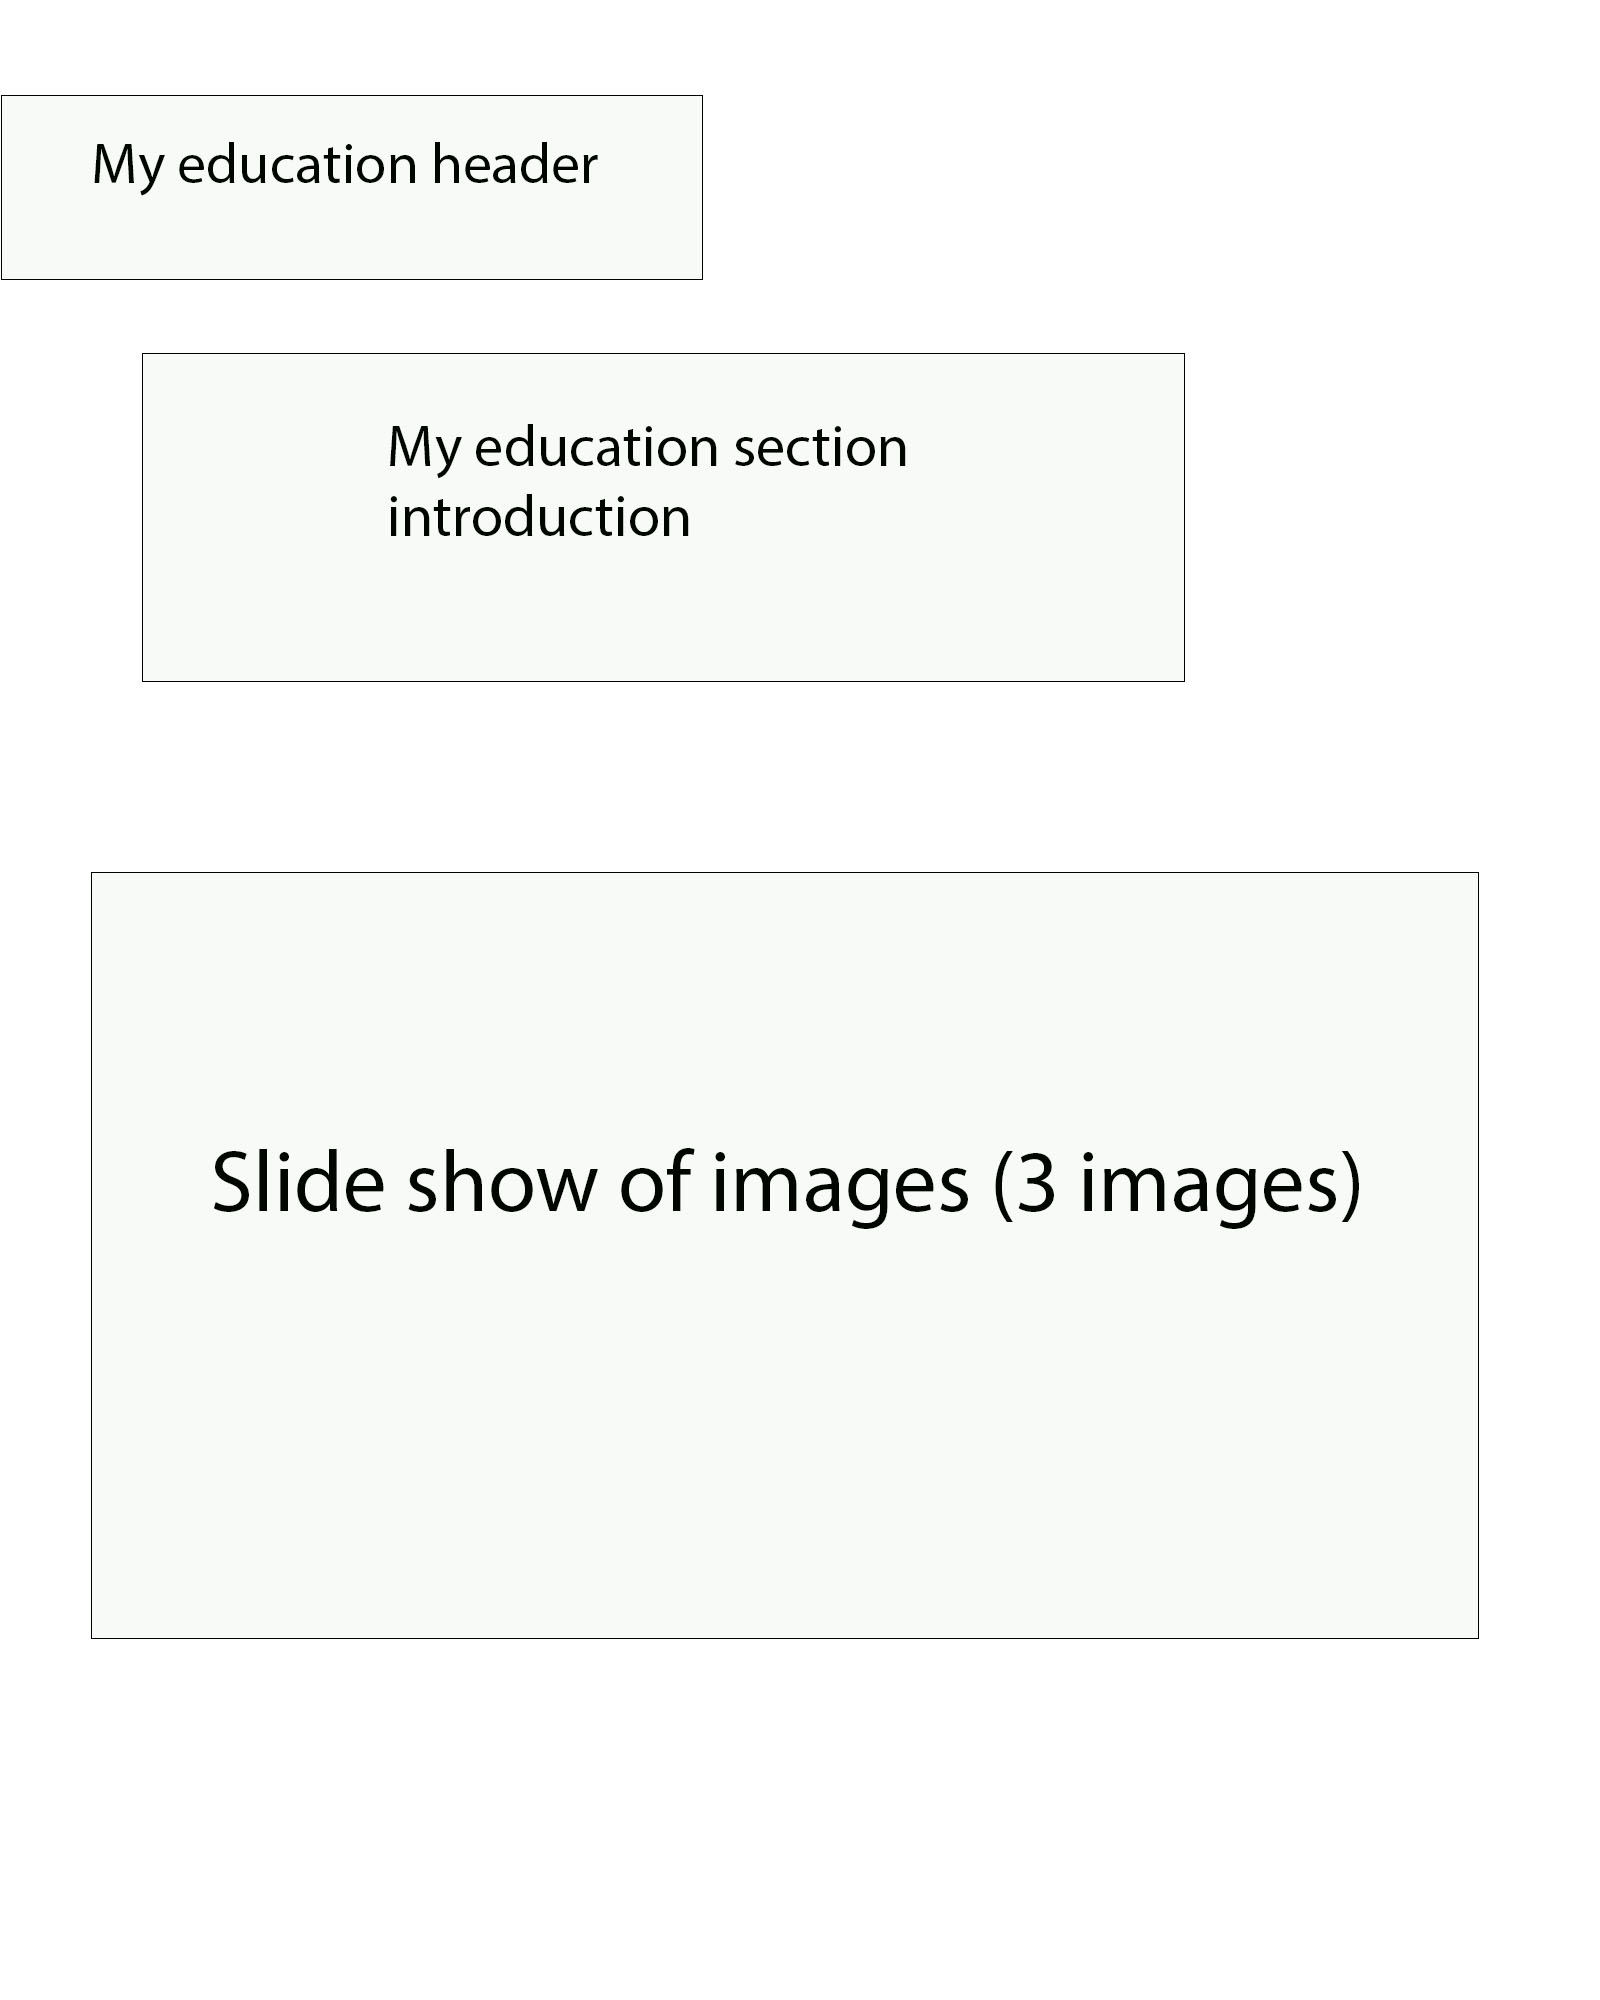
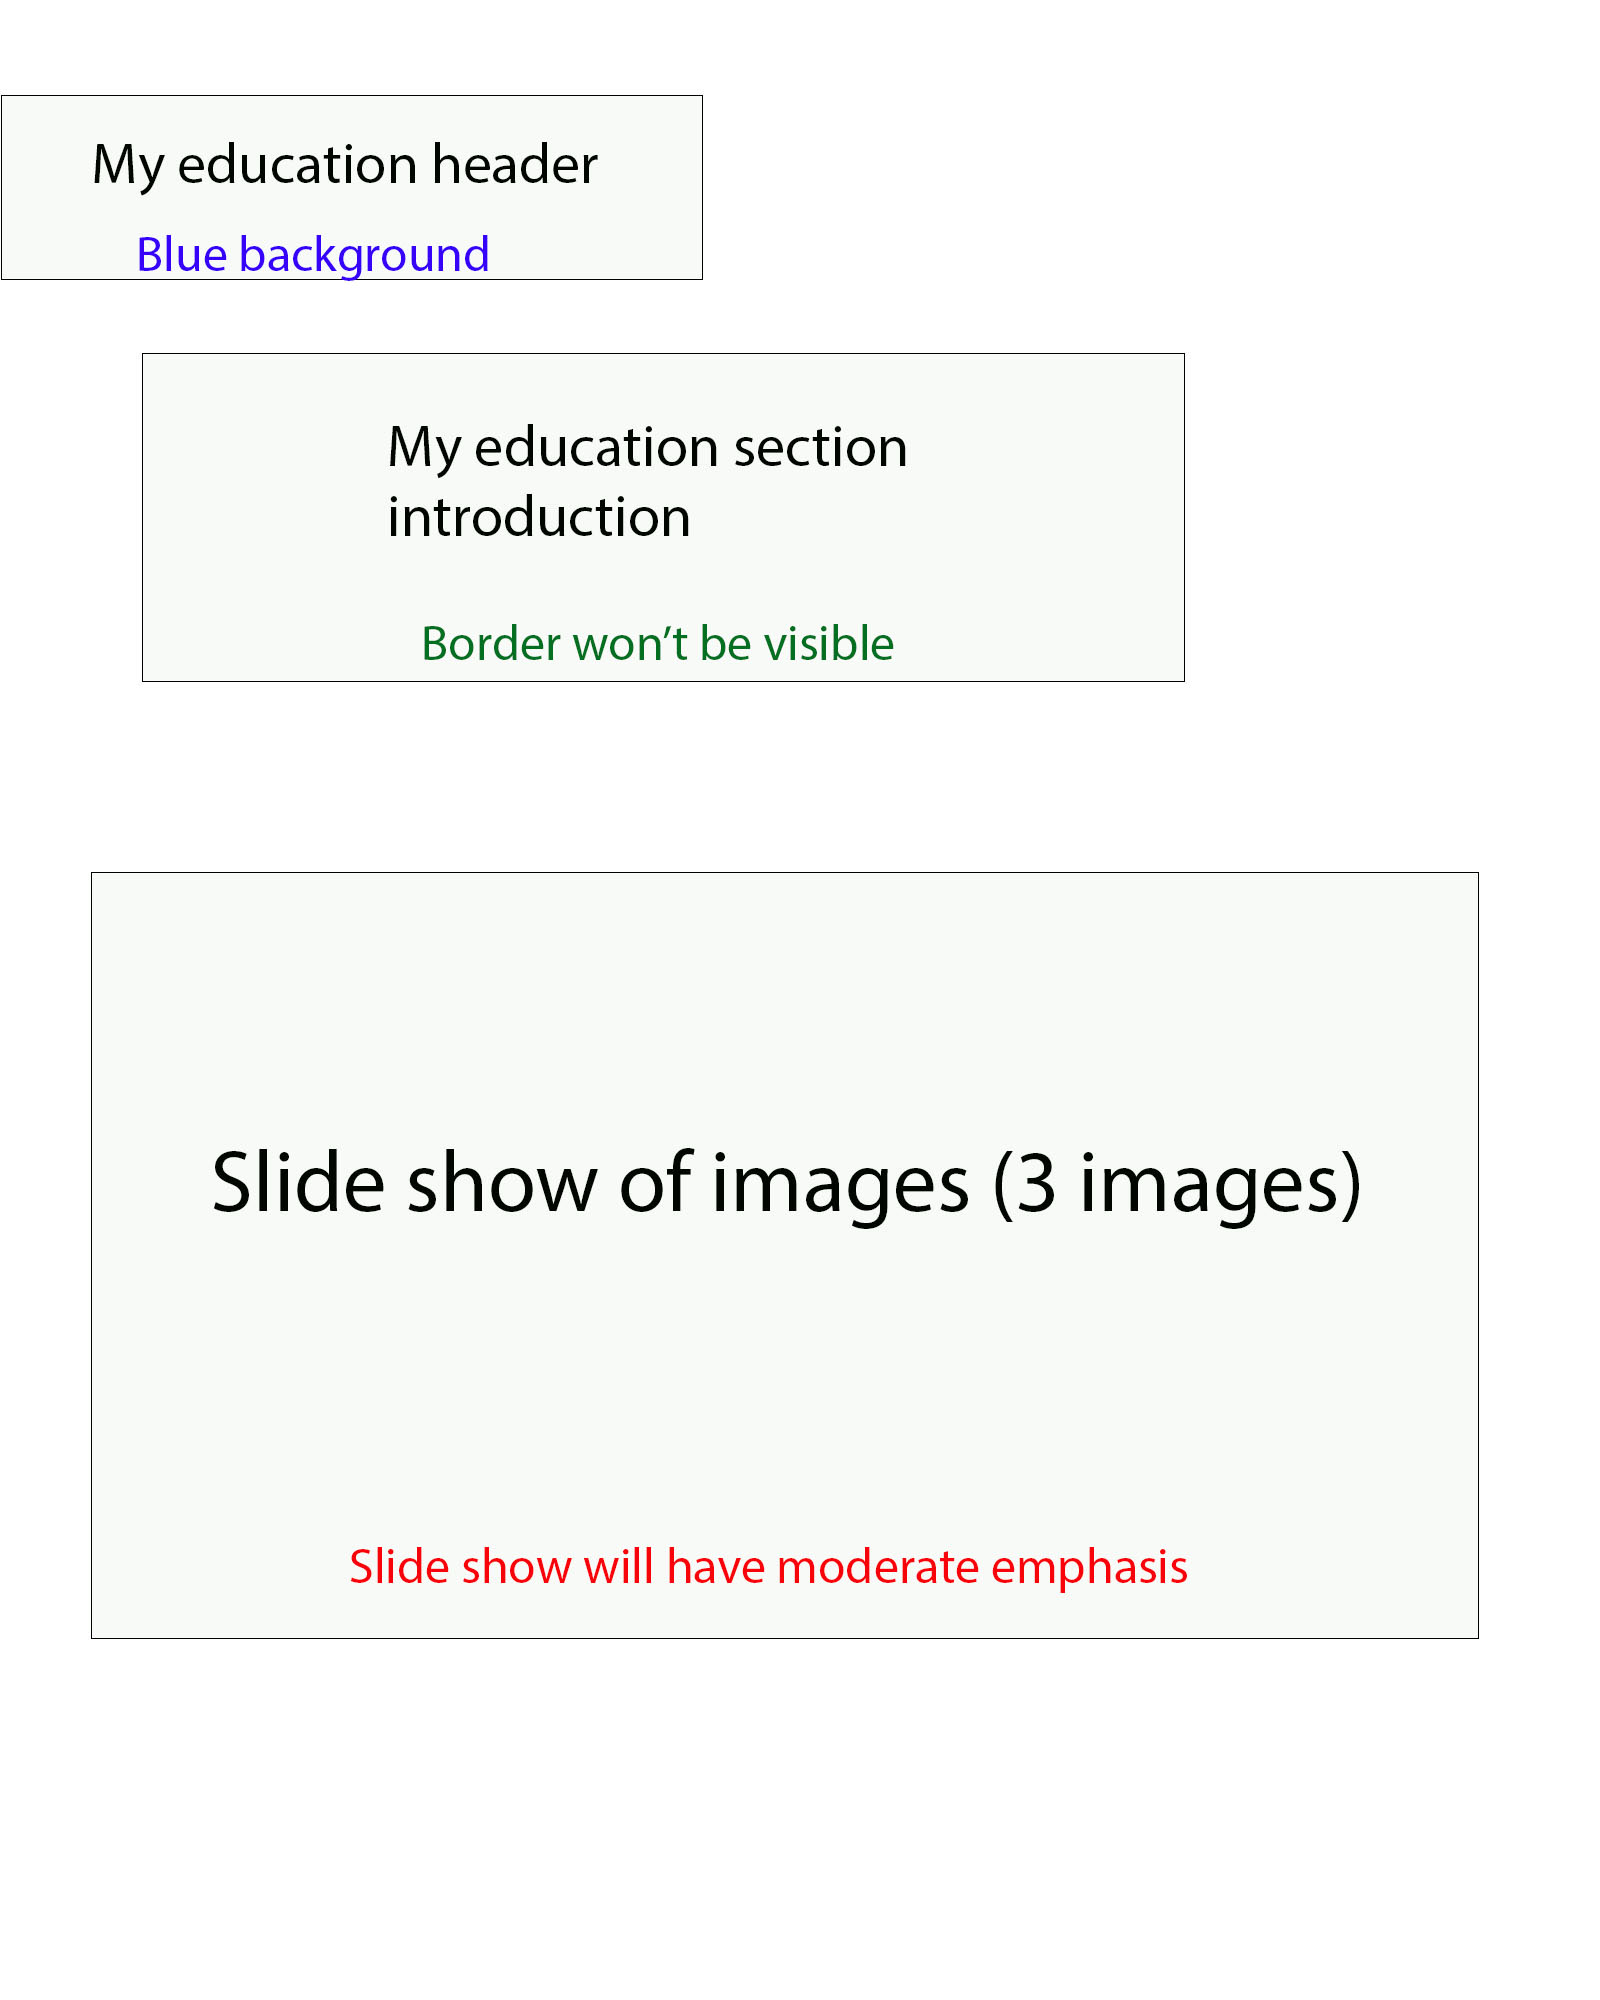
made some changes

Changed region(s): [[0.2188, 0.775, 0.75, 0.806], [0.25, 0.31, 0.5625, 0.341], [0.0938, 0.124, 0.3125, 0.155]]

diff --git a/Documentation/design/asset tables.md b/Documentation/design/asset tables.md
@@ -26,19 +26,19 @@ section. There are three images that will be conatined in a slide show next to t
 
 | Source  | Image  | Copyright  | size  | position on portfolio  |
 |---|---|---|---|---|
-| https://educwaac-my.sharepoint.com/:w:/r/personal/434879_edu_cwa_ac_uk/_layouts/15/Doc.aspx?sourcedoc=%7BFBE31201-A57E-4733-B04C-51A124C398C3%7D&file=Practicals%20and%20Components%20History.docx&wdOrigin=OFFICECOM-WEB.MAIN.REC&ct=1652706037738&action=default&mobileredirect=true | Hardware management practical | N | 450 x 450 | These will be the four images used as evidence in the college section explaining the hardware management topic |
-| file:///D:/L2_2022_U13_Mitchell%20-%20Copy/Src/HTML(Mobile)/Home.html | Mobile phone website opening view | N | 450 x 450 | Will be the first image in the explanation of my web development in the college section |
-| file:///D:/L2_2022_U13_Mitchell%20-%20Copy/Src/HTML(Mobile)/Home.html | Youtube video on my website home page | N | 450 x 450 | Will be the second image in the explanation of my web development in the college section |
-| file:///D:/L2_2022_U13_Mitchell%20-%20Copy/Src/HTML/ApplePhoneShop.HTML | Apple phone shop web page on my phone shop website | N | 450 x 450 | Will be the third image in the explanation of my web development in the college section |
-| file:///D:/L2_2022_U13_Mitchell%20-%20Copy/Src/HTML/Help.html | Help page of my phone shop website | N | 450 x 450 | Will be the fourth image in the explanation of my web development in the college section |
+| https://educwaac-my.sharepoint.com/:w:/r/personal/434879_edu_cwa_ac_uk/_layouts/15/Doc.aspx?sourcedoc=%7BFBE31201-A57E-4733-B04C-51A124C398C3%7D&file=Practicals%20and%20Components%20History.docx&wdOrigin=OFFICECOM-WEB.MAIN.REC&ct=1652706037738&action=default&mobileredirect=true | Hardware management practical | N | 1280 x 1280 | These will be the four images used as evidence in the college section explaining the hardware management topic |
+| file:///D:/L2_2022_U13_Mitchell%20-%20Copy/Src/HTML(Mobile)/Home.html | Mobile phone website opening view | N | 663 x 956 | Will be the first image in the explanation of my web development in the college section |
+| file:///D:/L2_2022_U13_Mitchell%20-%20Copy/Src/HTML(Mobile)/Home.html | Youtube video on my website home page | N | 1920 x 1080 | Will be the second image in the explanation of my web development in the college section |
+| file:///D:/L2_2022_U13_Mitchell%20-%20Copy/Src/HTML/ApplePhoneShop.HTML | Apple phone shop web page on my phone shop website | N | 1920 x 1080 | Will be the third image in the explanation of my web development in the college section |
+| file:///D:/L2_2022_U13_Mitchell%20-%20Copy/Src/HTML/Help.html | Help page of my phone shop website | N | 1920 x 1080 | Will be the fourth image in the explanation of my web development in the college section |
 
-In this table, the first asset is actually four images, I only made them one asset on the table because they are the same image just with different angles and components from the PC I was taking apart. The rest of the assets are the images that will be next to explanation of the development of my website and they will be used as evidence that I have created the website.
+In this table, the first asset is actually four images, I only made them one asset on the table because they are the same image just with different angles and components from the PC I was taking apart. The rest of the assets are the images that will be next to explanation of the development of my website and they will be used as evidence that I have created the website. The image of the opening view for my website has a smaller size than the other images of the website because the opening view is a screenshot of the mobile version whereas the others are screenshots of the PC version.
 
 ## Neale-Wade and Cavalry Primary sections
 
 | Source  | Image  | Copyright  | size  | position on portfolio  |
 |---|---|---|---|---|
-| https://students.cwa.ac.uk/learner/434879  | GCSE results  | N  | 450 x 450  | Will be the only image in the Neale-Wade section in the 'my education' section  |
+| https://students.cwa.ac.uk/learner/434879  | GCSE results  | N  | 1019 x 488  | Will be the only image in the Neale-Wade section in the 'my education' section  |
 |   | Sports day photo  |   |   | Will be the only image in the Cavalry Primary section in the 'my education' section  |
 
 Like the first asset table, there is only one image on each of these sections so I just put them into one asset table. The GCSE results will be on the 'Neale-Wade' section; used as evidence that I got decent grades. The image on the 'Cavalry Primary' section is an image of me at sports day which will be used to convince people that I am willing to participate in activites and that I have confidence.
@@ -56,7 +56,7 @@ The 'My Hobbies' section will have two images conatined in a slide show. One of 
 
 | Source  | Image  | Copyright  | size  | position on portfolio  |
 |---|---|---|---|---|
-| https://educwaac-my.sharepoint.com/:w:/r/personal/434879_edu_cwa_ac_uk/_layouts/15/Doc.aspx?sourcedoc=%7BBC495C24-0E91-4820-BD24-B7C9C32D26A5%7D&file=Mitchell%20CV.docx&action=default&mobileredirect=true&DefaultItemOpen=1&login_hint=434879%40edu.cwa.ac.uk&ct=1652708549136&wdOrigin=OFFICECOM-WEB.MAIN.EDGEWORTH&cid=5d31cade-27eb-40cf-8607-8e98cb3eb736  | My personal CV opening view  | N  | 450 x 450  | Will be the only image on the 'My Skills' section  |
+| https://educwaac-my.sharepoint.com/:w:/r/personal/434879_edu_cwa_ac_uk/_layouts/15/Doc.aspx?sourcedoc=%7BBC495C24-0E91-4820-BD24-B7C9C32D26A5%7D&file=Mitchell%20CV.docx&action=default&mobileredirect=true&DefaultItemOpen=1&login_hint=434879%40edu.cwa.ac.uk&ct=1652708549136&wdOrigin=OFFICECOM-WEB.MAIN.EDGEWORTH&cid=5d31cade-27eb-40cf-8607-8e98cb3eb736  | My personal CV opening view  | N  | 813 x 825  | Will be the only image on the 'My Skills' section  |
 
 There is only one image in this asset table, I decided not to convert this section with another to make one asset table because the link for the source of this asset is very long. The asset is an image of the opening view of my CV which contains a full explanation of my skills and why they are my main skills. There is also a link within the text for this section that will take you to the actual word document of my CV.
 
@@ -65,8 +65,9 @@ There is only one image in this asset table, I decided not to convert this secti
 | Source  | Image  | Copyright  | size  | position on portfolio  |
 |---|---|---|---|---|
 | http://www.bluechipbs.co.uk/  | Blue Chip Brand Solutions logo  | Y  | 800 x 604  | Will be the first image on the 'work experience' section  | 
-| https://students.cwa.ac.uk/learner/434879/experiences  | Logged hours of work experience  | N  | 450 x 450  | Will be the second image on the 'work experience' section |
+| https://students.cwa.ac.uk/learner/434879/experiences  | Logged hours of work experience  | N  | 1887 x 498  | Will be the second image on the 'work experience' section |
 
 There is two images in this section and one of them is the logo of Blue Chip Brand Solutions which was the company that I did my wrok experience at, it's mainly used for design and context. The second image in this section is a screenshot of my logged hours which has been cropped to only contain the content that is relevant, this will be used as evidence to show that I have completed my 60 hours of work experience.
 
+Most of the images do have random sizes but the main reason is becuase sway has a feature where it can resize the image to fit on the screen perfectly so it saved me time having to edit the size of the images on photoshop.
 

diff --git a/Documentation/design/storyboard.md b/Documentation/design/storyboard.md
@@ -6,7 +6,7 @@
 
 This will be the layout for the start of the portfolio and it will contain the title, my name a section that is a description of me. I chose this layout because I believed that having a little personal profile at the start was a great idea since it introduces anyone who is viewing this portfolio to me who is the person that the portfolio is going to be based on. The conatiner that is holding the title and my name will have its own background just for decoration, it will be an image of the college of west anglia becuase it is apart of my educational experience. The title, my name and all of the headers will have blue backgrounds since it is one of the colours within my chosen colour scheme. The background for all of thye sections will be white because the colour for most of the text will be black, so it was ideal to have a bright background so that the black text was more visible, I did acknowledge that mixing certain colours together can make the text less vsisble and harder to read plus some people may have difficulties in reading certain coloured text so I just chose two colours that mix well which was black and white. 
 
-The image will be an image of me for my personal profile and the about me description will be providing an introduction me, my name, what college I go to and some things I do in my free time etc. I gave the image an appropriate size because I noticed that having the image at larger sizes will make it look distorted, so I gave it a smaller size whilst not making too small so that people can see it clearly.
+The image will be an image of me for my personal profile and the about me description will be providing an introduction me, my name, what college I go to and some things I do in my free time etc. I will give the image a subtle emphasis which is the smallest size setting for images on microsoft sway, I chose this size because it prevents the image from being distorted whilst not being too small up to the point it is barely visible.
 
 ## My eductaion section
 
